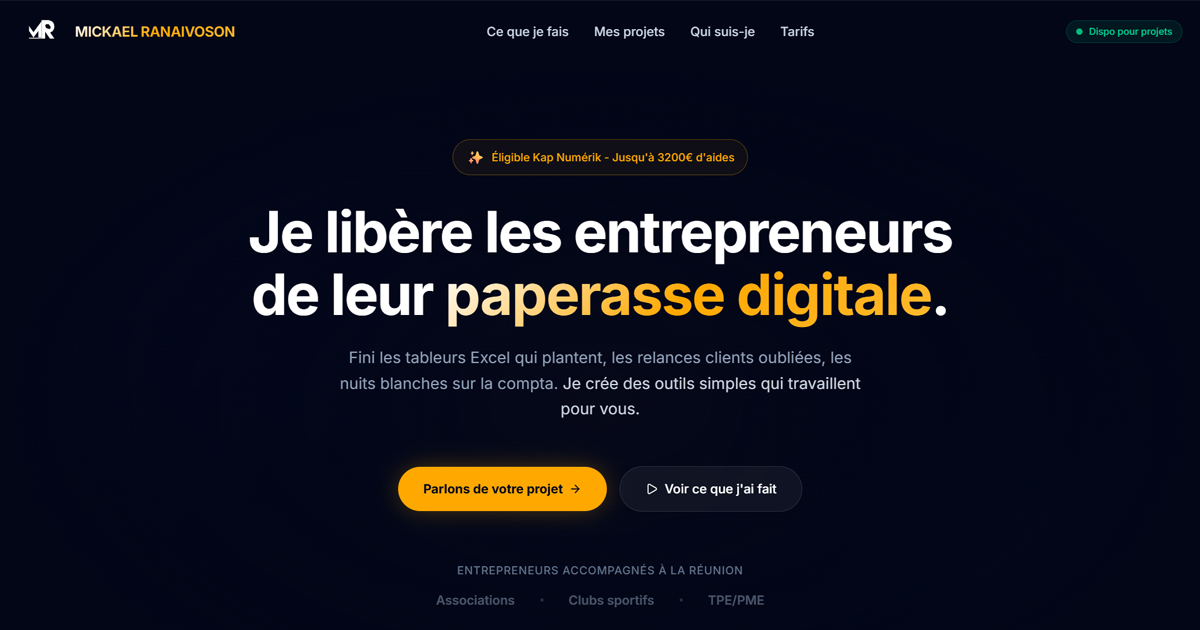
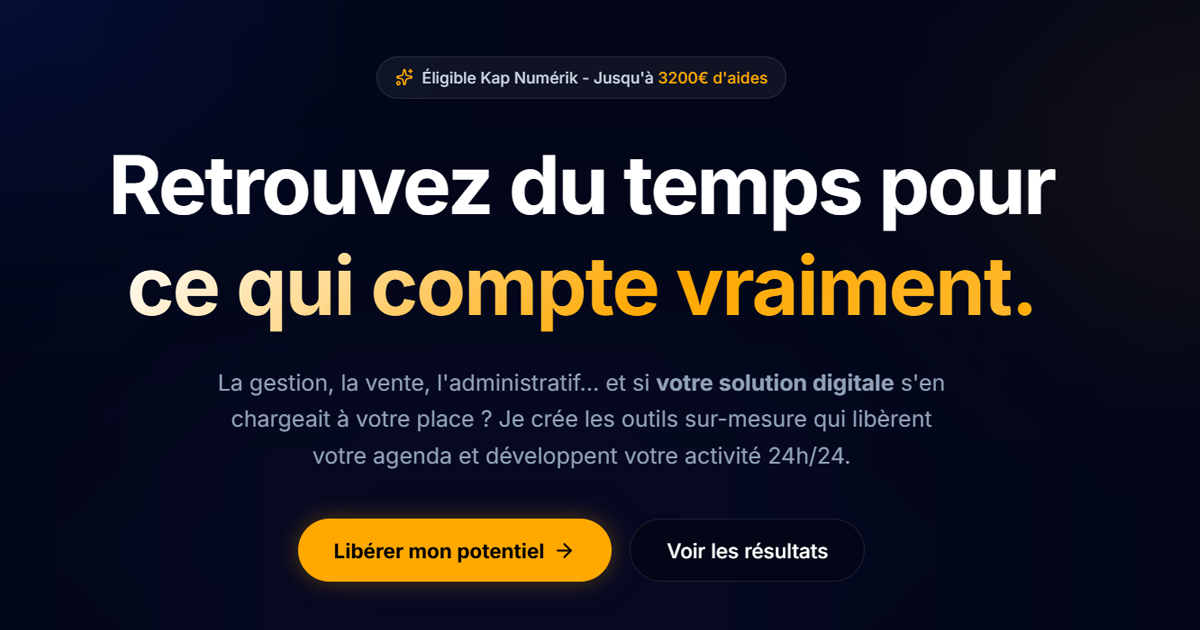
feat: redesign hero section with aurora effect and white-to-yellow gradient title, and make navbar transparent

diff --git a/components/Hero.tsx b/components/Hero.tsx
@@ -1,273 +1,101 @@
-"use client";
+'use client'
 
-import { motion, Variants } from "framer-motion";
 import Link from "next/link";
-import { ArrowRight, Play } from "lucide-react";
+import { Button } from "@/components/ui/button";
+import { ArrowRight, Sparkles } from "lucide-react";
+import { motion } from "framer-motion";
 
-// ===========================================
-// Animation Variants
-// ===========================================
-const containerVariants: Variants = {
-  hidden: { opacity: 0 },
-  visible: {
-    opacity: 1,
-    transition: {
-      staggerChildren: 0.15,
-      delayChildren: 0.2,
-    },
-  },
-};
-
-const itemVariants: Variants = {
-  hidden: { opacity: 0, y: 30 },
-  visible: {
-    opacity: 1,
-    y: 0,
-    transition: {
-      duration: 0.6,
-      ease: [0.25, 0.4, 0.25, 1],
-    },
-  },
-};
-
-const blobVariants: Variants = {
-  animate: {
-    scale: [1, 1.15, 1],
-    opacity: [0.3, 0.5, 0.3],
-    transition: {
-      duration: 8,
-      repeat: Infinity,
-      ease: "easeInOut",
-    },
-  },
-};
-
-const blobVariants2: Variants = {
-  animate: {
-    scale: [1.1, 1, 1.1],
-    opacity: [0.4, 0.3, 0.4],
-    transition: {
-      duration: 10,
-      repeat: Infinity,
-      ease: "easeInOut",
-    },
-  },
-};
-
-const blobVariants3: Variants = {
-  animate: {
-    scale: [1, 1.2, 1],
-    opacity: [0.2, 0.4, 0.2],
-    transition: {
-      duration: 6,
-      repeat: Infinity,
-      ease: "easeInOut",
-    },
-  },
-};
-
-// ===========================================
-// Sub-components
-// ===========================================
-
-function AuroraBackground() {
-  return (
-    <div className="absolute inset-0 overflow-hidden">
-      {/* Blob 1: Top-left Indigo */}
-      <motion.div
-        variants={blobVariants}
-        animate="animate"
-        className="absolute -top-40 -left-40 w-[600px] h-[600px] rounded-full bg-indigo-600/20 blur-[60px] md:blur-[120px] will-change-transform"
-      />
-
-      {/* Blob 2: Bottom-right Blue */}
-      <motion.div
-        variants={blobVariants2}
-        animate="animate"
-        className="absolute -bottom-40 -right-40 w-[500px] h-[500px] rounded-full bg-blue-600/20 blur-[60px] md:blur-[120px] will-change-transform"
-      />
-
-      {/* Blob 3: Center/Top Gold (Brand Color) */}
-      <motion.div
-        variants={blobVariants3}
-        animate="animate"
-        className="absolute top-1/4 left-1/2 -translate-x-1/2 w-[400px] h-[400px] rounded-full bg-[#ffa800]/10 blur-[60px] md:blur-[120px] will-change-transform"
-      />
-
-      {/* Grid Pattern Overlay */}
-      <div
-        className="absolute inset-0 opacity-[0.03]"
-        style={{
-          backgroundImage: `linear-gradient(rgba(255,255,255,0.1) 1px, transparent 1px),
-                           linear-gradient(90deg, rgba(255,255,255,0.1) 1px, transparent 1px)`,
-          backgroundSize: "64px 64px",
-        }}
-      />
-
-      {/* Radial gradient overlay for depth */}
-      <div className="absolute inset-0 bg-[radial-gradient(ellipse_at_center,_transparent_0%,_#020617_70%)]" />
-    </div>
-  );
-}
-
-function Badge() {
-  return (
-    <motion.div
-      variants={itemVariants}
-      className="inline-flex items-center gap-2 px-4 py-2 rounded-full
-        border border-[#ffa800]/30 bg-[#ffa800]/5 backdrop-blur-sm"
-    >
-      <span className="text-lg">✨</span>
-      <span className="text-xs sm:text-sm font-medium text-[#ffa800]">
-        Éligible Kap Numérik - Jusqu&apos;à 3200€ d&apos;aides
-      </span>
-    </motion.div>
-  );
-}
-
-function Title() {
-  return (
-    <motion.h1
-      variants={itemVariants}
-      className="text-3xl sm:text-5xl md:text-6xl lg:text-7xl font-bold tracking-tight text-white leading-[1.1]"
-    >
-      Je libère les entrepreneurs
-      <br className="hidden sm:block" />
-      <span className="sm:hidden"> </span>de leur{" "}
-      <span
-        className="bg-clip-text text-transparent"
-        style={{
-          backgroundImage:
-            "linear-gradient(135deg, #ffffff 0%, #ffa800 50%, #ffb92e 100%)",
-        }}
-      >
-        paperasse digitale
-      </span>
-      .
-    </motion.h1>
-  );
-}
-
-function Subtitle() {
-  return (
-    <motion.p
-      variants={itemVariants}
-      className="text-base sm:text-lg md:text-xl text-slate-400 max-w-2xl mx-auto leading-relaxed"
-    >
-      Fini les tableurs Excel qui plantent, les relances clients oubliées, les nuits blanches sur la compta.
-      <span className="hidden sm:inline">
-        {" "}
-        Je crée des outils simples qui travaillent pour vous.
-      </span>
-    </motion.p>
-  );
-}
-
-function CTAButtons() {
-  return (
-    <motion.div
-      variants={itemVariants}
-      className="flex flex-col sm:flex-row items-center justify-center gap-4 pt-4"
-    >
-      {/* Primary CTA */}
-      <Link
-        href="#contact"
-        className="group inline-flex items-center gap-2 px-6 sm:px-8 py-3 sm:py-4 rounded-full
-          bg-[#ffa800] text-slate-950 font-bold text-sm sm:text-base
-          hover:bg-[#ffb92e] transition-all duration-300
-          shadow-[0_0_30px_-5px_rgba(255,168,0,0.4)]
-          hover:shadow-[0_0_40px_-5px_rgba(255,168,0,0.6)]
-          hover:scale-105"
-      >
-        Parlons de votre projet
-        <ArrowRight className="w-4 h-4 transition-transform group-hover:translate-x-1" />
-      </Link>
-
-      {/* Secondary CTA */}
-      <Link
-        href="#realisations"
-        className="group inline-flex items-center gap-2 px-6 sm:px-8 py-3 sm:py-4 rounded-full
-          border border-white/10 bg-white/5 backdrop-blur-sm
-          text-white font-medium text-sm sm:text-base
-          hover:bg-white/10 hover:border-white/20 transition-all duration-300"
-      >
-        <Play className="w-4 h-4" />
-        Voir ce que j'ai fait
-      </Link>
-    </motion.div>
-  );
-}
-
-function SocialProof() {
-  return (
-    <motion.div
-      variants={itemVariants}
-      className="pt-12 sm:pt-16 flex flex-col items-center gap-4"
-    >
-      <p className="text-xs sm:text-sm text-slate-500 uppercase tracking-wider font-medium">
-        Structures accompagnées à La Réunion
-      </p>
-      <div className="flex flex-wrap justify-center items-center gap-x-6 gap-y-2 sm:gap-8 opacity-50 px-4">
-        <span className="text-slate-400 font-semibold text-sm sm:text-base">
-          Associations
-        </span>
-        <span className="w-1 h-1 rounded-full bg-slate-600" />
-        <span className="text-slate-400 font-semibold text-sm sm:text-base">
-          Clubs sportifs
-        </span>
-        <span className="w-1 h-1 rounded-full bg-slate-600" />
-        <span className="text-slate-400 font-semibold text-sm sm:text-base">
-          TPE/PME
-        </span>
-        <span className="w-1 h-1 rounded-full bg-slate-600" />
-        <span className="text-slate-400 font-semibold text-sm sm:text-base">
-          Indépendants
-        </span>
-      </div>
-    </motion.div>
-  );
-}
-
-// ===========================================
-// Main Hero Component
-// ===========================================
 export function Hero() {
   return (
-    <section className="relative min-h-screen w-full flex justify-center bg-slate-950 overflow-hidden">
-      {/* Aurora Background Effect */}
-      <AuroraBackground />
+    <section className="relative min-h-screen flex items-center pt-20 overflow-hidden bg-slate-950">
+      
+      {/* --- FOND ANIMÉ (Aurora Effect) --- */}
+      <div className="absolute inset-0 w-full h-full pointer-events-none">
+        <div className="absolute top-[-10%] left-[-10%] w-[40%] h-[40%] bg-blue-700/20 rounded-full blur-[120px] animate-pulse" />
+        <div className="absolute top-[20%] right-[-5%] w-[30%] h-[30%] bg-[#ffa800]/10 rounded-full blur-[100px]" />
+        <div className="absolute bottom-[-10%] left-[20%] w-[50%] h-[50%] bg-indigo-900/10 rounded-full blur-[120px]" />
+      </div>
 
-      {/* Main Content */}
-      <motion.div
-        variants={containerVariants}
-        initial="hidden"
-        animate="visible"
-        className="relative z-10 w-full max-w-5xl mx-auto px-4 sm:px-6 pt-16 pb-2 sm:pt-24 sm:pb-20 text-center"
-      >
-        {/* Badge */}
-        <div className="mb-6 sm:mb-8">
-          <Badge />
-        </div>
+      <div className="container mx-auto px-6 relative z-10 text-center">
+        
+        {/* Badge "Dispo" ou "Kap Numérik" */}
+        <motion.div 
+          initial={{ opacity: 0, y: 20 }}
+          animate={{ opacity: 1, y: 0 }}
+          transition={{ duration: 0.5 }}
+          className="inline-flex items-center gap-2 px-4 py-2 rounded-full bg-white/5 border border-white/10 backdrop-blur-sm mb-8"
+        >
+          <Sparkles className="w-4 h-4 text-[#ffa800]" />
+          <span className="text-sm font-medium text-slate-300">
+            Éligible Kap Numérik - Jusqu'à <span className="text-[#ffa800]">3200€ d'aides</span>
+          </span>
+        </motion.div>
 
-        {/* Title */}
-        <div className="mb-6">
-          <Title />
-        </div>
+        {/* TITRE IMPACTANT */}
+        <motion.h1 
+          initial={{ opacity: 0, y: 20 }}
+          animate={{ opacity: 1, y: 0 }}
+          transition={{ duration: 0.5, delay: 0.1 }}
+          className="text-4xl md:text-6xl lg:text-7xl font-bold tracking-tight text-white mb-6 leading-tight"
+        >
+          Retrouvez du temps pour <br className="hidden md:block" />
+          <span 
+            className="text-transparent bg-clip-text"
+            style={{
+              backgroundImage: "linear-gradient(135deg, #ffffff 0%, #ffa800 60%, #ffb92e 100%)"
+            }}
+          >
+            ce qui compte vraiment
+          </span>
+          <span 
+            className="text-transparent bg-clip-text"
+            style={{
+              backgroundImage: "linear-gradient(135deg, #ffffff 0%, #ffa800 60%, #ffb92e 100%)"
+            }}
+          >.</span>
+        </motion.h1>
 
-        {/* Subtitle */}
-        <div className="mb-8 sm:mb-10">
-          <Subtitle />
-        </div>
+        {/* SOUS-TITRE */}
+        <motion.p 
+          initial={{ opacity: 0, y: 20 }}
+          animate={{ opacity: 1, y: 0 }}
+          transition={{ duration: 0.5, delay: 0.2 }}
+          className="text-lg md:text-xl text-slate-400 mb-10 max-w-2xl mx-auto leading-relaxed"
+        >
+          La gestion, la vente, l'administratif... et si <strong>votre solution digitale</strong> s'en chargeait à votre place ? 
+          Je crée les outils sur-mesure qui libèrent votre agenda et développent votre activité 24h/24.
+        </motion.p>
 
-        {/* CTA Buttons */}
-        <CTAButtons />
+        {/* BOUTONS D'ACTION */}
+        <motion.div 
+          initial={{ opacity: 0, y: 20 }}
+          animate={{ opacity: 1, y: 0 }}
+          transition={{ duration: 0.5, delay: 0.3 }}
+          className="flex flex-col sm:flex-row items-center justify-center gap-4"
+        >
+          <Button 
+            size="lg" 
+            className="bg-[#ffa800] text-black hover:bg-[#ffb92e] text-lg px-8 font-bold h-14 rounded-full shadow-[0_0_20px_rgba(255,168,0,0.3)] transition-all hover:scale-105" 
+            asChild
+          >
+            <Link href="#contact">
+              Libérer mon potentiel <ArrowRight className="ml-2 w-5 h-5" />
+            </Link>
+          </Button>
+          
+          <Button 
+            variant="outline" 
+            size="lg" 
+            className="border-white/10 text-white hover:bg-white/5 text-lg px-8 h-14 rounded-full" 
+            asChild
+          >
+            <Link href="#realisations">
+              Voir les résultats
+            </Link>
+          </Button>
+        </motion.div>
 
-        {/* Social Proof */}
-        <SocialProof />
-      </motion.div>
-
-      {/* Bottom Gradient Fade (optional, for smooth transition to next section) */}
-      <div className="absolute bottom-0 left-0 right-0 h-32 bg-gradient-to-t from-slate-950 to-transparent pointer-events-none" />
+      </div>
     </section>
   );
 }

diff --git a/components/layout/Header.tsx b/components/layout/Header.tsx
@@ -300,11 +300,11 @@ export function Header() {
         initial={{ y: 0 }}
         animate={{ y: isHidden ? "-100%" : "0%" }}
         transition={{ duration: 0.3, ease: "easeInOut" }}
-        className={`fixed top-0 left-0 right-0 z-50 transition-colors duration-300
+        className={`fixed top-0 left-0 right-0 z-50 transition-all duration-300
           ${
             isScrolled
-              ? "bg-slate-950/70 backdrop-blur-md border-b border-white/5"
-              : "bg-transparent"
+              ? "bg-slate-950/80 backdrop-blur-md border-b border-white/10 py-3"
+              : "bg-transparent border-b border-transparent py-5"
           }`}
       >
         <div className="container mx-auto px-4 sm:px-6">

diff --git a/app/layout.tsx b/app/layout.tsx
@@ -78,7 +78,7 @@ export default function RootLayout({
           disableTransitionOnChange
         >
           <Header />
-          <main className="pt-20">{children}</main>
+          <main>{children}</main>
           <Footer />
         </ThemeProvider>
       </body>
